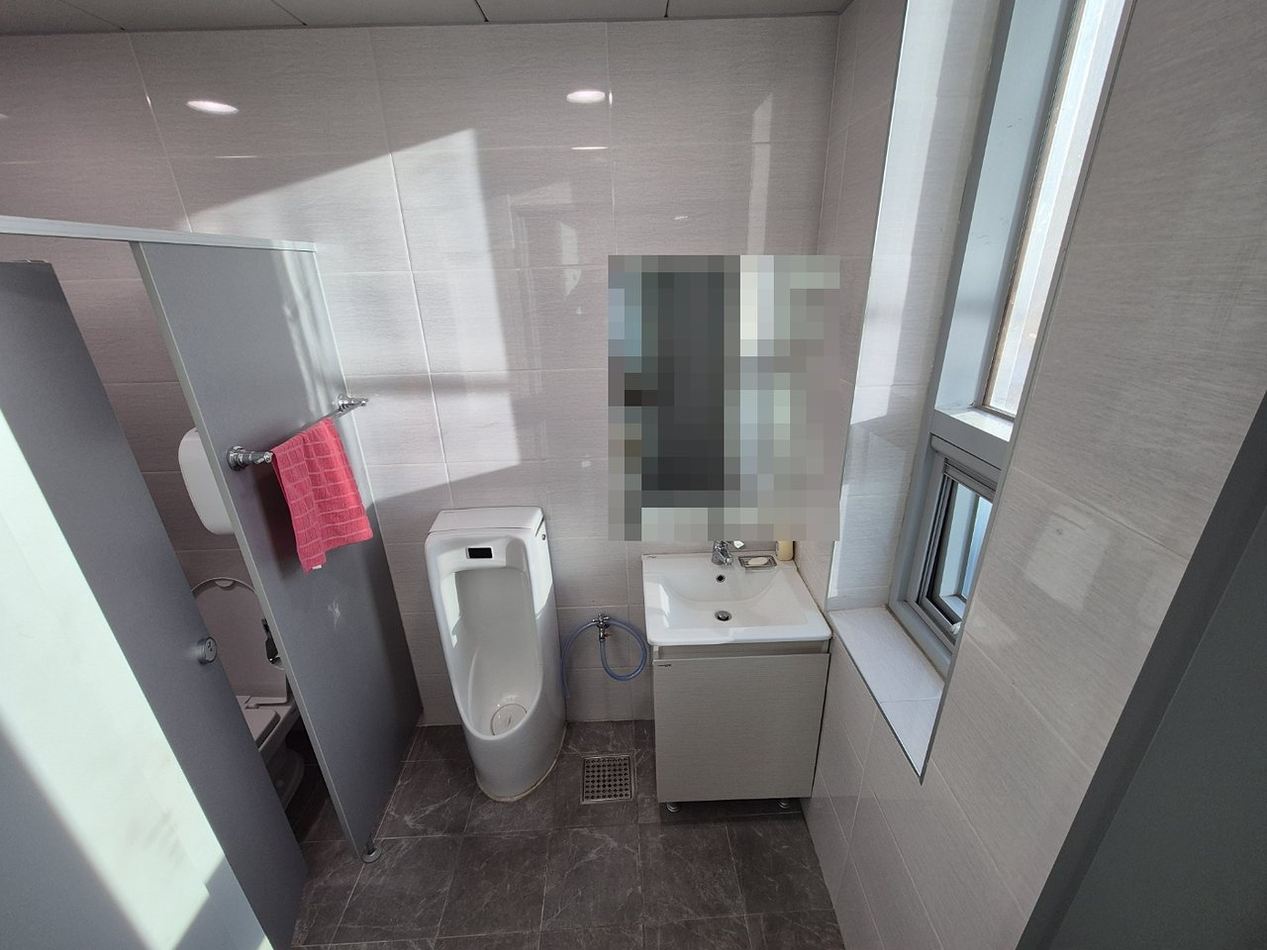
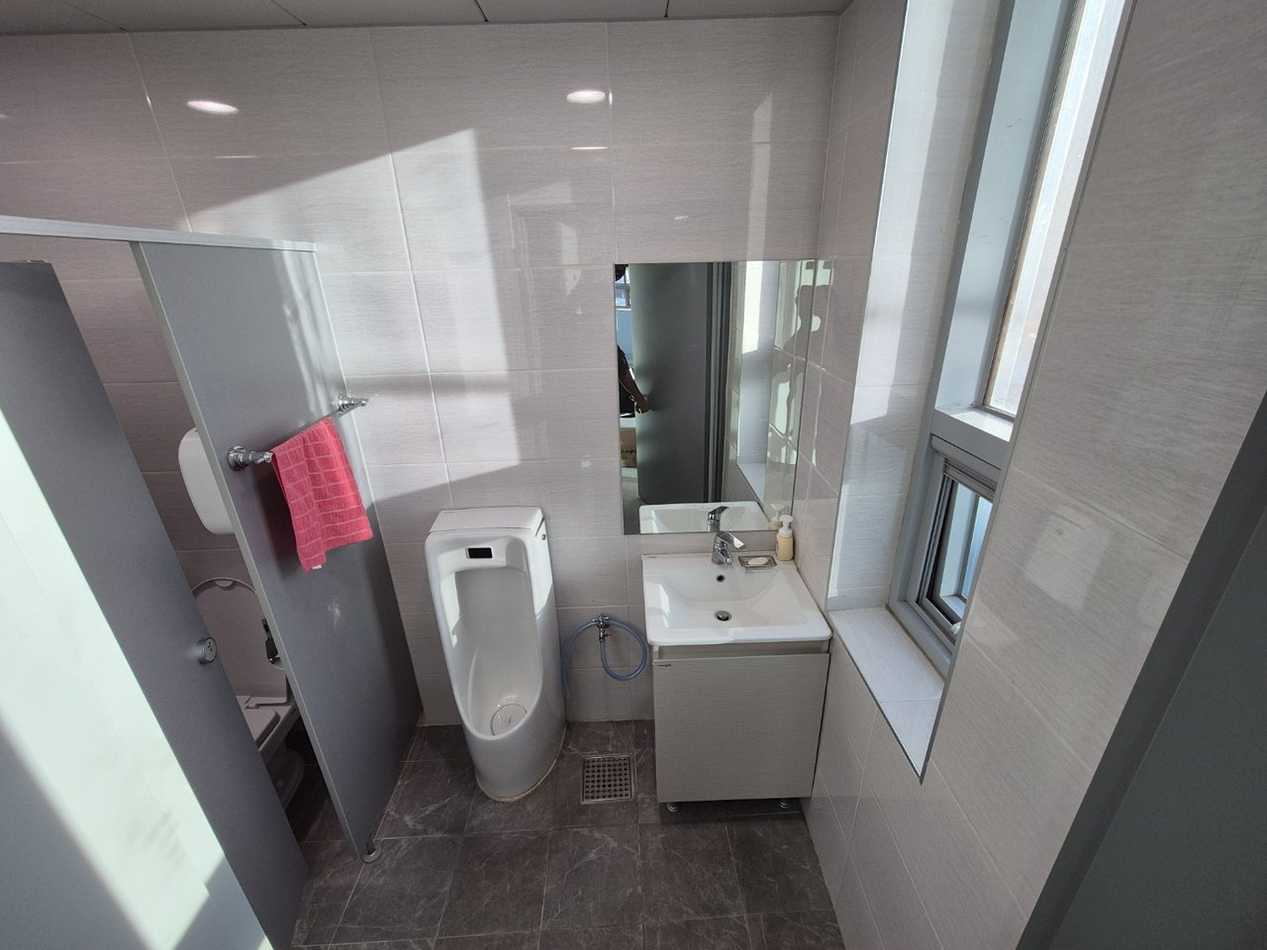
좌석 A~D구역·내 자리 사진 추가, 화장실 남녀 사진을 원본 그대로 교체

Changed region(s): [[0.4688, 0.25, 0.6562, 0.5938]]

diff --git a/index.html b/index.html
@@ -2558,7 +2558,7 @@ Object.assign(A, {
 });
 
 /* ===== 공간 사진(홍보): 실제 라운드비 사진 ===== */
-const GALLERY = [{"file":"g01.jpg","title":"라운드비가 있는 건물","caption":"푸른 유리창이 길게 이어진 건물 외관, 이곳에 라운드비가 있어요.","room":"common","rooms":["common"],"cat":"공용","group":"building","primary":true,"alt":"올려다본 고층 건물 외관. 푸른빛 유리창과 은회색 패널 벽이 길게 이어진다."},{"file":"g02.jpg","title":"ROUNDBOFFICE 입구","caption":"우드톤 벽면에 ROUNDBOFFICE 로고가 새겨진 입구, 안쪽으로 복도와 팬트리가 이어져요.","room":"common","rooms":["common"],"cat":"공용","group":"entrance","primary":true,"alt":"나무 무늬 벽에 검은 글씨로 ROUNDBOFFICE라고 적혀 있고, 왼쪽으로 복도와 팬트리 카운터, 창문이 보인다."},{"file":"g04.jpg","title":"나란히 놓인 업무 좌석","caption":"서랍이 딸린 하얀 책상과 메쉬 의자가 창가를 따라 줄지어 있어요.","room":"common","rooms":["common"],"cat":"공용","group":"seats","primary":true,"alt":"나무 칸막이 옆으로 하얀 책상과 서랍장, 흰색 메쉬 의자가 한 줄로 놓여 있고 뒤로 창문이 보인다."},{"file":"g07.jpg","title":"팬트리","caption":"우드 수납장 아래 은은한 조명, 정수기와 냉장고가 놓인 팬트리 코너예요.","room":"common","rooms":["common"],"cat":"공용","group":"pantry","primary":true,"alt":"연한 나무색 상부장과 하부장, 조명이 켜진 선반 아래에 정수기와 흰색 냉장고가 놓여 있다."},{"file":"g03.jpg","title":"햇살 드는 공유 좌석","caption":"우드 칸막이 너머로 창가를 따라 하얀 책상과 서랍, 메쉬 의자가 놓여 있어요.","room":"common","rooms":["common"],"cat":"공용","group":"seats","primary":false,"alt":"나무 칸막이 옆으로 하얀 책상과 서랍장, 회색 메쉬 의자가 놓인 밝은 사무 공간. 큰 창으로 빛이 들어온다."},{"file":"g05.jpg","title":"유리 회의 공간이 보이는 좌석 구역","caption":"좌석 구역 안쪽으로 반투명 유리벽의 회의 공간이 이어져요.","room":"common","rooms":["common"],"cat":"공용","group":"seats","primary":false,"alt":"하얀 책상과 의자가 놓인 사무 공간 너머로 반투명 유리벽이 있는 방이 보인다."},{"file":"g06.jpg","title":"콘센트가 있는 우드 벤치 코너","caption":"우드 패널 코너에 콘센트가 달린 벤치가 있고, 그 뒤로 좌석 구역이 보여요.","room":"common","rooms":["common"],"cat":"공용","group":"seats","primary":false,"alt":"나무 패널로 둘러싸인 모서리에 낮은 벤치와 콘센트가 있고, 왼쪽 뒤로 하얀 책상과 의자들이 보인다."},{"file":"g23.jpg","title":"A구역 좌석","caption":"나무 가림벽 옆으로 하얀 책상이 이어 붙어 있는 A구역이에요.","room":"common","rooms":["common"],"cat":"좌석 구역","group":"seat-A","primary":true,"alt":"나무 가림벽 옆에 하얀 책상들이 이어 붙어 있는 좌석 구역. 책상 아래에는 서랍이 달려 있고, 멀리 창가에 의자와 책상이 보이며 가림벽 너머로 주황 벤치가 살짝 보인다. 왼쪽 일부는 모자이크로 가렸다."},{"file":"g24.jpg","title":"D구역 좌석","caption":"글귀 걸개가 걸린 벽 앞으로 하얀 책상과 의자가 이어진 D구역이에요.","room":"common","rooms":["common"],"cat":"좌석 구역","group":"seat-D","primary":true,"alt":"글귀가 적힌 하얀 천 걸개가 걸린 벽 앞에 하얀 책상들이 이어져 있고, 회색 메쉬 의자가 둘러놓여 있다. 가까운 책상 위에는 '우편물 보관장소' 표지가 붙은 투명 보관함이 있고 바닥에 멀티탭이 놓여 있다."},{"file":"g08.jpg","title":"도시가 보이는 창가 라운지","caption":"통창 너머로 거리 풍경이 펼쳐지는 휴게 공간, 주황빛 벤치와 테이블이 놓여 있어요.","room":"4f-lounge","rooms":["4f-lounge"],"cat":"휴게공간","group":"lounge-corner","primary":true,"alt":"나무 패널 벽 앞에 주황색 쿠션 벤치와 글씨 무늬 식탁보를 씌운 테이블이 있고, 큰 유리창 밖으로 건물과 도로가 보인다."},{"file":"g09.jpg","title":"벤치와 테이블이 있는 휴게 코너","caption":"우드 패널 벽과 주황색 벤치, 창밖으로 거리가 내려다보이는 아늑한 코너예요.","room":"4f-lounge","rooms":["4f-lounge"],"cat":"휴게공간","group":"lounge-corner","primary":false,"alt":"나무 패널 벽을 따라 주황색 벤치가 L자로 놓여 있고 가운데 테이블이 있으며, 오른쪽 통창 밖으로 도로와 건물이 보인다."},{"file":"g10.jpg","title":"우드 패널 휴게 공간","caption":"나무 패널로 둘러싸인 코너에 벤치와 테이블이 놓인 휴게 공간이에요.","room":"4f-lounge","rooms":["4f-lounge"],"cat":"휴게공간","group":"lounge-corner","primary":false,"alt":"나무 패널 벽 앞 주황색 벤치와 글씨 무늬 식탁보를 씌운 테이블, 오른쪽으로 긴 유리창이 이어지는 모습."},{"file":"g21.jpg","title":"작은 회의실","caption":"유리벽 옆에 하얀 테이블과 의자가 놓이고 모니터가 세워진 작은 회의실이에요.","room":"4f-conf","rooms":["4f-conf"],"cat":"회의실","group":"conf-meeting-room","primary":true,"alt":"하얀 직사각 테이블 둘레에 회색 메쉬 의자가 놓인 작은 회의실. 안쪽 벽 앞에 모니터가 스탠드에 세워져 있고 오른쪽은 반투명 띠가 있는 유리벽이다. 테이블 위에는 리모컨과 펜이 있다."},{"file":"g22.jpg","title":"통창이 보이는 회의실","caption":"유리벽 안쪽에 하얀 테이블과 의자가 놓이고, 통창으로 거리가 내려다보여요.","room":"4f-conf","rooms":["4f-conf"],"cat":"회의실","group":"conf-meeting-room","primary":false,"alt":"유리벽 안쪽의 작은 회의실. 하얀 테이블과 메쉬 의자들이 놓여 있고 안쪽 통창으로 건너편 건물이 보인다. 앞쪽에는 흰 받침대에 세운 모니터의 뒷면이 보인다."},{"file":"g15.jpg","title":"스크린 앞 강의형 좌석","caption":"스크린 앞으로 책상과 의자가 줄지어 놓인 강의형 배치예요.","room":"4f-conf","rooms":["4f-conf"],"cat":"회의실","group":"conf-whiteboard","primary":true,"alt":"아치형 나무 책장 앞 큰 화면을 향해 하얀 책상과 검은 의자가 여러 줄 놓여 있다."},{"file":"g20.jpg","title":"전자칠판","caption":"바퀴 달린 스탠드에 세워진 대형 전자칠판과 주황빛 선반장이 있는 회의실이에요.","room":"4f-conf","rooms":["4f-conf"],"cat":"회의실","group":"conf-whiteboard","primary":false,"alt":"큰 창 옆, 바퀴 달린 스탠드 위에 세워진 대형 전자칠판 화면. 화면 아래 선반에 리모컨과 케이블이 놓여 있고, 오른쪽에는 주황빛 조명이 든 나무 선반장이 있다."},{"file":"g16.jpg","title":"넓은 교육·세미나 공간","caption":"통창으로 빛이 드는 넓은 공간에 테이블과 의자가 줄지어 놓여 있어요.","room":"4f-conf","rooms":["4f-conf"],"cat":"회의실","group":"conf-whiteboard","primary":false,"alt":"넓은 방에 하얀 테이블과 검은 의자가 여러 줄 놓여 있고 오른쪽에 큰 창이 있다."},{"file":"g11.jpg","title":"창가 회의실","caption":"하얀 회의 테이블과 의자가 놓인, 통창으로 빛이 드는 회의실이에요.","room":"4f-conf","rooms":["4f-conf"],"cat":"회의실","group":"conf-whiteboard","primary":false,"alt":"긴 하얀 테이블 양옆에 검은 메쉬 의자가 놓인 작은 회의실. 한쪽 벽이 큰 창이다."},{"file":"g13.jpg","title":"아치형 책장이 있는 세미나 공간","caption":"아치형 우드 책장과 주황빛 선반 앞에 하얀 테이블과 의자가 놓여 있어요.","room":"4f-conf","rooms":["4f-conf"],"cat":"회의실","group":"conf-whiteboard","primary":false,"alt":"주황색 선반이 있는 아치형 나무 책장 앞에 하얀 테이블과 검은 의자가 놓인 밝은 공간."},{"file":"g14.jpg","title":"대형 스크린이 있는 교육 공간","caption":"대형 스크린과 테이블·의자가 놓인 넓고 밝은 공간이에요.","room":"4f-conf","rooms":["4f-conf"],"cat":"회의실","group":"conf-whiteboard","primary":false,"alt":"벽에 큰 화면이 걸려 있고, 하얀 테이블과 검은 의자가 길게 놓인 밝은 방. 한쪽은 통창이다."},{"file":"g12.jpg","title":"밝은 회의 공간","caption":"하얀 벽과 큰 창, 테이블과 의자만 놓인 깔끔한 회의 공간이에요.","room":"4f-conf","rooms":["4f-conf"],"cat":"회의실","group":"conf-whiteboard","primary":false,"alt":"큰 창 앞에 하얀 테이블과 검은 의자들이 놓인 밝고 깔끔한 회의실."},{"file":"g17.jpg","title":"호리존 촬영 스튜디오","caption":"하얀 호리존 배경과 조명이 갖춰진 촬영 스튜디오예요.","room":"3f-studio","rooms":["3f-studio"],"cat":"스튜디오","group":"studio-horizon","primary":true,"alt":"바닥과 벽이 곡선으로 이어진 하얀 호리존 배경, 왼쪽 창가에 대형 소프트박스 조명이 서 있다."},{"file":"g18.jpg","title":"소프트박스 조명","caption":"대형 소프트박스 조명이 하얀 배경을 비추도록 세팅된 스튜디오예요.","room":"3f-studio","rooms":["3f-studio"],"cat":"스튜디오","group":"studio-horizon","primary":false,"alt":"창 옆에 커다란 소프트박스 조명이 세워져 있고, 정면에 하얀 호리존 배경이 펼쳐져 있다."},{"file":"g19.jpg","title":"화장실 입구","caption":"회색 문 두 개가 나란히 있고, 문 사이 벽에 남자화장실 표지가 붙어 있어요.","room":"3f-men","rooms":["3f-men","4f-men"],"cat":"화장실","group":"restroom-door","primary":false,"alt":"회색 문 두 개가 있는 좁은 복도 모서리. 두 문 사이 벽에 파란 남성 픽토그램 표지와 전등 스위치가 붙어 있고, 왼쪽 문 앞 바닥에 주황색 점자블록 두 장이 놓여 있다."},{"file":"g25.jpg","title":"화장실 안내","caption":"'화장실' 안내판이 붙은 기둥 옆으로 회색 문 두 개가 나란히 있어요.","room":"3f-men","rooms":["3f-men","4f-men","3f-women","4f-women"],"cat":"화장실","group":"restroom-door","primary":false,"alt":"화장실 화살표 안내판이 붙은 기둥 옆, 회색 문 두 개가 나란히 있는 복도 모서리. 문 사이 벽에 남성 표지가 있고 바닥에 주황색 점자블록이 놓여 있다. 왼쪽에는 알람밸브실 문이 보인다."},{"file":"g26.jpg","title":"여자화장실","caption":"세면대와 거울, 칸막이가 있는 깔끔한 여자화장실이에요.","room":"3f-women","rooms":["3f-women","4f-women"],"cat":"화장실","group":"restroom-women","primary":false,"alt":"회색 타일 벽의 화장실 안쪽. 흰색 세면대와 거울, 파란 수건이 보이고 오른쪽에 회색 칸막이 문이 있다. 왼쪽 문에는 붉은 출입금지 안내 스티커가 붙어 있다."},{"file":"g27.jpg","title":"남자화장실","caption":"소변기와 세면대, 창이 있는 밝은 남자화장실이에요.","room":"3f-men","rooms":["3f-men","4f-men"],"cat":"화장실","group":"restroom-men","primary":false,"alt":"하얀 타일 벽의 화장실 안쪽. 소변기와 세면대, 오른쪽 세로 창이 있고 왼쪽에 회색 칸막이와 분홍 수건이 걸려 있다. 거울 부분은 모자이크로 가렸다."},{"file":"g28.jpg","title":"실외기실","caption":"좁은 방 안에 실외기가 놓여 있고 뒤쪽에 환기용 창살이 있어요.","room":"3f-ac","rooms":["3f-ac","4f-ac"],"cat":"실외기실","group":"ac-room","primary":false,"alt":"회색 문틀 너머의 좁은 방. 타일 바닥 위에 흰색 실외기 한 대가 놓여 있고, 뒤쪽 벽 위에 가로 창살 환기창이 있다."},{"file":"g29.jpg","title":"실외기실 문","caption":"연회색 문이 실외기실로 이어지고, 옆으로 교육 공간과 큰 화면이 보여요.","room":"3f-ac","rooms":["3f-ac"],"cat":"실외기실","group":"ac-room","primary":false,"alt":"하얀 벽에 연회색 문이 있고, 오른쪽으로 책상과 의자가 줄지어 놓인 넓은 공간이 이어진다. 안쪽에 큰 화면이 스탠드에 세워져 있다. 벽에 붙은 작은 안내지는 모자이크로 가렸다."},{"file":"g30.jpg","title":"아치 문이 있는 창고 입구","caption":"나무 벽에 아치형 문이 나 있고 레이스 커튼이 걸려 있어요. 안쪽에 선반과 상자가 보여요.","room":"3f-storage","rooms":["3f-storage"],"cat":"창고","group":"storage","primary":false,"alt":"연한 나무색 벽 가운데에 아치형 출입구가 있고 흰 레이스 커튼이 걸려 있다. 커튼 너머로 선반과 상자가 보이고, 오른쪽에는 삼각대에 세운 검은 촬영 장비, 바닥에는 검은 케이스가 있다."}];
+const GALLERY = [{"file":"g01.jpg","title":"라운드비가 있는 건물","caption":"푸른 유리창이 길게 이어진 건물 외관, 이곳에 라운드비가 있어요.","room":"common","rooms":["common"],"cat":"공용","group":"building","primary":true,"alt":"올려다본 고층 건물 외관. 푸른빛 유리창과 은회색 패널 벽이 길게 이어진다."},{"file":"g02.jpg","title":"ROUNDBOFFICE 입구","caption":"우드톤 벽면에 ROUNDBOFFICE 로고가 새겨진 입구, 안쪽으로 복도와 팬트리가 이어져요.","room":"common","rooms":["common"],"cat":"공용","group":"entrance","primary":true,"alt":"나무 무늬 벽에 검은 글씨로 ROUNDBOFFICE라고 적혀 있고, 왼쪽으로 복도와 팬트리 카운터, 창문이 보인다."},{"file":"g04.jpg","title":"나란히 놓인 업무 좌석","caption":"서랍이 딸린 하얀 책상과 메쉬 의자가 창가를 따라 줄지어 있어요.","room":"common","rooms":["common"],"cat":"공용","group":"seats","primary":true,"alt":"나무 칸막이 옆으로 하얀 책상과 서랍장, 흰색 메쉬 의자가 한 줄로 놓여 있고 뒤로 창문이 보인다."},{"file":"g07.jpg","title":"팬트리","caption":"우드 수납장 아래 은은한 조명, 정수기와 냉장고가 놓인 팬트리 코너예요.","room":"common","rooms":["common"],"cat":"공용","group":"pantry","primary":true,"alt":"연한 나무색 상부장과 하부장, 조명이 켜진 선반 아래에 정수기와 흰색 냉장고가 놓여 있다."},{"file":"g03.jpg","title":"햇살 드는 공유 좌석","caption":"우드 칸막이 너머로 창가를 따라 하얀 책상과 서랍, 메쉬 의자가 놓여 있어요.","room":"common","rooms":["common"],"cat":"공용","group":"seats","primary":false,"alt":"나무 칸막이 옆으로 하얀 책상과 서랍장, 회색 메쉬 의자가 놓인 밝은 사무 공간. 큰 창으로 빛이 들어온다."},{"file":"g05.jpg","title":"유리 회의 공간이 보이는 좌석 구역","caption":"좌석 구역 안쪽으로 반투명 유리벽의 회의 공간이 이어져요.","room":"common","rooms":["common"],"cat":"공용","group":"seats","primary":false,"alt":"하얀 책상과 의자가 놓인 사무 공간 너머로 반투명 유리벽이 있는 방이 보인다."},{"file":"g06.jpg","title":"콘센트가 있는 우드 벤치 코너","caption":"우드 패널 코너에 콘센트가 달린 벤치가 있고, 그 뒤로 좌석 구역이 보여요.","room":"common","rooms":["common"],"cat":"공용","group":"seats","primary":false,"alt":"나무 패널로 둘러싸인 모서리에 낮은 벤치와 콘센트가 있고, 왼쪽 뒤로 하얀 책상과 의자들이 보인다."},{"file":"g23.jpg","title":"A구역 좌석","caption":"A1~A6, 6석이 한 묶음으로 놓인 공유 좌석 구역이에요.","room":"common","rooms":["common"],"cat":"좌석 구역","group":"zone-A","primary":true,"alt":"하얀 책상이 이어 붙은 A구역 좌석. 창가와 나무 칸막이가 보인다."},{"file":"g24.jpg","title":"D구역 좌석","caption":"D1~D6, 6석 좌석 구역이에요.","room":"common","rooms":["common"],"cat":"좌석 구역","group":"zone-D","primary":true,"alt":"하얀 책상과 의자가 놓인 D구역 좌석."},{"file":"g31.jpg","title":"A구역 좌석 (다른 각도)","caption":"A구역을 다른 쪽에서 본 모습이에요.","room":"common","rooms":["common"],"cat":"좌석 구역","group":"zone-A","primary":false,"alt":"A구역 좌석을 다른 각도에서 찍은 모습."},{"file":"g32.jpg","title":"B구역 좌석","caption":"B1~B4, 4석이 모인 좌석 구역이에요.","room":"common","rooms":["common"],"cat":"좌석 구역","group":"zone-B","primary":true,"alt":"하얀 책상과 의자가 놓인 B구역 좌석."},{"file":"g33.jpg","title":"C구역 좌석","caption":"C1~C6, 6석 좌석 구역이에요. 매니저가 일하는 자리가 있어요.","room":"common","rooms":["common"],"cat":"좌석 구역","group":"zone-C","primary":true,"alt":"하얀 책상과 의자가 놓인 C구역 좌석."},{"file":"g34.jpg","title":"D구역 좌석 (다른 각도)","caption":"D구역을 다른 쪽에서 본 모습이에요.","room":"common","rooms":["common"],"cat":"좌석 구역","group":"zone-D","primary":false,"alt":"D구역 좌석을 다른 각도에서 찍은 모습."},{"file":"g35.jpg","title":"내 자리 · 매니저 카이","caption":"라운드비 매니저가 일하는 자리예요.","room":"common","rooms":["common"],"cat":"좌석 구역","group":"manager-seat","primary":false,"alt":"라운드비 매니저의 업무 자리."},{"file":"g08.jpg","title":"도시가 보이는 창가 라운지","caption":"통창 너머로 거리 풍경이 펼쳐지는 휴게 공간, 주황빛 벤치와 테이블이 놓여 있어요.","room":"4f-lounge","rooms":["4f-lounge"],"cat":"휴게공간","group":"lounge-corner","primary":true,"alt":"나무 패널 벽 앞에 주황색 쿠션 벤치와 글씨 무늬 식탁보를 씌운 테이블이 있고, 큰 유리창 밖으로 건물과 도로가 보인다."},{"file":"g09.jpg","title":"벤치와 테이블이 있는 휴게 코너","caption":"우드 패널 벽과 주황색 벤치, 창밖으로 거리가 내려다보이는 아늑한 코너예요.","room":"4f-lounge","rooms":["4f-lounge"],"cat":"휴게공간","group":"lounge-corner","primary":false,"alt":"나무 패널 벽을 따라 주황색 벤치가 L자로 놓여 있고 가운데 테이블이 있으며, 오른쪽 통창 밖으로 도로와 건물이 보인다."},{"file":"g10.jpg","title":"우드 패널 휴게 공간","caption":"나무 패널로 둘러싸인 코너에 벤치와 테이블이 놓인 휴게 공간이에요.","room":"4f-lounge","rooms":["4f-lounge"],"cat":"휴게공간","group":"lounge-corner","primary":false,"alt":"나무 패널 벽 앞 주황색 벤치와 글씨 무늬 식탁보를 씌운 테이블, 오른쪽으로 긴 유리창이 이어지는 모습."},{"file":"g21.jpg","title":"작은 회의실","caption":"유리벽 옆에 하얀 테이블과 의자가 놓이고 모니터가 세워진 작은 회의실이에요.","room":"4f-conf","rooms":["4f-conf"],"cat":"회의실","group":"conf-meeting-room","primary":true,"alt":"하얀 직사각 테이블 둘레에 회색 메쉬 의자가 놓인 작은 회의실. 안쪽 벽 앞에 모니터가 스탠드에 세워져 있고 오른쪽은 반투명 띠가 있는 유리벽이다. 테이블 위에는 리모컨과 펜이 있다."},{"file":"g22.jpg","title":"통창이 보이는 회의실","caption":"유리벽 안쪽에 하얀 테이블과 의자가 놓이고, 통창으로 거리가 내려다보여요.","room":"4f-conf","rooms":["4f-conf"],"cat":"회의실","group":"conf-meeting-room","primary":false,"alt":"유리벽 안쪽의 작은 회의실. 하얀 테이블과 메쉬 의자들이 놓여 있고 안쪽 통창으로 건너편 건물이 보인다. 앞쪽에는 흰 받침대에 세운 모니터의 뒷면이 보인다."},{"file":"g15.jpg","title":"스크린 앞 강의형 좌석","caption":"스크린 앞으로 책상과 의자가 줄지어 놓인 강의형 배치예요.","room":"4f-conf","rooms":["4f-conf"],"cat":"회의실","group":"conf-whiteboard","primary":true,"alt":"아치형 나무 책장 앞 큰 화면을 향해 하얀 책상과 검은 의자가 여러 줄 놓여 있다."},{"file":"g20.jpg","title":"전자칠판","caption":"바퀴 달린 스탠드에 세워진 대형 전자칠판과 주황빛 선반장이 있는 회의실이에요.","room":"4f-conf","rooms":["4f-conf"],"cat":"회의실","group":"conf-whiteboard","primary":false,"alt":"큰 창 옆, 바퀴 달린 스탠드 위에 세워진 대형 전자칠판 화면. 화면 아래 선반에 리모컨과 케이블이 놓여 있고, 오른쪽에는 주황빛 조명이 든 나무 선반장이 있다."},{"file":"g16.jpg","title":"넓은 교육·세미나 공간","caption":"통창으로 빛이 드는 넓은 공간에 테이블과 의자가 줄지어 놓여 있어요.","room":"4f-conf","rooms":["4f-conf"],"cat":"회의실","group":"conf-whiteboard","primary":false,"alt":"넓은 방에 하얀 테이블과 검은 의자가 여러 줄 놓여 있고 오른쪽에 큰 창이 있다."},{"file":"g11.jpg","title":"창가 회의실","caption":"하얀 회의 테이블과 의자가 놓인, 통창으로 빛이 드는 회의실이에요.","room":"4f-conf","rooms":["4f-conf"],"cat":"회의실","group":"conf-whiteboard","primary":false,"alt":"긴 하얀 테이블 양옆에 검은 메쉬 의자가 놓인 작은 회의실. 한쪽 벽이 큰 창이다."},{"file":"g13.jpg","title":"아치형 책장이 있는 세미나 공간","caption":"아치형 우드 책장과 주황빛 선반 앞에 하얀 테이블과 의자가 놓여 있어요.","room":"4f-conf","rooms":["4f-conf"],"cat":"회의실","group":"conf-whiteboard","primary":false,"alt":"주황색 선반이 있는 아치형 나무 책장 앞에 하얀 테이블과 검은 의자가 놓인 밝은 공간."},{"file":"g14.jpg","title":"대형 스크린이 있는 교육 공간","caption":"대형 스크린과 테이블·의자가 놓인 넓고 밝은 공간이에요.","room":"4f-conf","rooms":["4f-conf"],"cat":"회의실","group":"conf-whiteboard","primary":false,"alt":"벽에 큰 화면이 걸려 있고, 하얀 테이블과 검은 의자가 길게 놓인 밝은 방. 한쪽은 통창이다."},{"file":"g12.jpg","title":"밝은 회의 공간","caption":"하얀 벽과 큰 창, 테이블과 의자만 놓인 깔끔한 회의 공간이에요.","room":"4f-conf","rooms":["4f-conf"],"cat":"회의실","group":"conf-whiteboard","primary":false,"alt":"큰 창 앞에 하얀 테이블과 검은 의자들이 놓인 밝고 깔끔한 회의실."},{"file":"g17.jpg","title":"호리존 촬영 스튜디오","caption":"하얀 호리존 배경과 조명이 갖춰진 촬영 스튜디오예요.","room":"3f-studio","rooms":["3f-studio"],"cat":"스튜디오","group":"studio-horizon","primary":true,"alt":"바닥과 벽이 곡선으로 이어진 하얀 호리존 배경, 왼쪽 창가에 대형 소프트박스 조명이 서 있다."},{"file":"g18.jpg","title":"소프트박스 조명","caption":"대형 소프트박스 조명이 하얀 배경을 비추도록 세팅된 스튜디오예요.","room":"3f-studio","rooms":["3f-studio"],"cat":"스튜디오","group":"studio-horizon","primary":false,"alt":"창 옆에 커다란 소프트박스 조명이 세워져 있고, 정면에 하얀 호리존 배경이 펼쳐져 있다."},{"file":"g19.jpg","title":"화장실 입구","caption":"회색 문 두 개가 나란히 있고, 문 사이 벽에 남자화장실 표지가 붙어 있어요.","room":"3f-men","rooms":["3f-men","4f-men"],"cat":"화장실","group":"restroom-door","primary":false,"alt":"회색 문 두 개가 있는 좁은 복도 모서리. 두 문 사이 벽에 파란 남성 픽토그램 표지와 전등 스위치가 붙어 있고, 왼쪽 문 앞 바닥에 주황색 점자블록 두 장이 놓여 있다."},{"file":"g25.jpg","title":"화장실 안내","caption":"'화장실' 안내판이 붙은 기둥 옆으로 회색 문 두 개가 나란히 있어요.","room":"3f-men","rooms":["3f-men","4f-men","3f-women","4f-women"],"cat":"화장실","group":"restroom-door","primary":false,"alt":"화장실 화살표 안내판이 붙은 기둥 옆, 회색 문 두 개가 나란히 있는 복도 모서리. 문 사이 벽에 남성 표지가 있고 바닥에 주황색 점자블록이 놓여 있다. 왼쪽에는 알람밸브실 문이 보인다."},{"file":"g26.jpg","title":"여자화장실","caption":"세면대와 칸막이가 있는 깔끔한 여자화장실이에요.","room":"3f-women","rooms":["3f-women","4f-women"],"cat":"화장실","group":"restroom-women","primary":false,"alt":"회색 칸막이와 세면대가 있는 여자화장실 내부."},{"file":"g27.jpg","title":"남자화장실","caption":"소변기와 세면대가 있는 남자화장실이에요.","room":"3f-men","rooms":["3f-men","4f-men"],"cat":"화장실","group":"restroom-men","primary":false,"alt":"소변기와 세면대, 창문이 있는 남자화장실 내부."},{"file":"g28.jpg","title":"실외기실","caption":"좁은 방 안에 실외기가 놓여 있고 뒤쪽에 환기용 창살이 있어요.","room":"3f-ac","rooms":["3f-ac","4f-ac"],"cat":"실외기실","group":"ac-room","primary":false,"alt":"회색 문틀 너머의 좁은 방. 타일 바닥 위에 흰색 실외기 한 대가 놓여 있고, 뒤쪽 벽 위에 가로 창살 환기창이 있다."},{"file":"g29.jpg","title":"실외기실 문","caption":"연회색 문이 실외기실로 이어지고, 옆으로 교육 공간과 큰 화면이 보여요.","room":"3f-ac","rooms":["3f-ac"],"cat":"실외기실","group":"ac-room","primary":false,"alt":"하얀 벽에 연회색 문이 있고, 오른쪽으로 책상과 의자가 줄지어 놓인 넓은 공간이 이어진다. 안쪽에 큰 화면이 스탠드에 세워져 있다. 벽에 붙은 작은 안내지는 모자이크로 가렸다."},{"file":"g30.jpg","title":"아치 문이 있는 창고 입구","caption":"나무 벽에 아치형 문이 나 있고 레이스 커튼이 걸려 있어요. 안쪽에 선반과 상자가 보여요.","room":"3f-storage","rooms":["3f-storage"],"cat":"창고","group":"storage","primary":false,"alt":"연한 나무색 벽 가운데에 아치형 출입구가 있고 흰 레이스 커튼이 걸려 있다. 커튼 너머로 선반과 상자가 보이고, 오른쪽에는 삼각대에 세운 검은 촬영 장비, 바닥에는 검은 케이스가 있다."}];
 const LINKS = [["라운드비 홈페이지", "https://roundb.co.kr/"], ["카카오톡 채널 문의", "https://pf.kakao.com/_guxfxlX"], ["유튜브", "https://www.youtube.com/@%EB%9D%BC%EC%9A%B4%EB%93%9C%EB%B9%84%EA%B3%B5%EC%9C%A0%EC%98%A4%ED%94%BC%EC%8A%A4/featured"], ["인스타그램", "https://www.instagram.com/roundboffice/"]];
 const linksHTML = () => `<div class="row lk">${LINKS.map(([t, u]) => `<a class="btn btn-sm" href="${esc(u)}" target="_blank" rel="noopener noreferrer">${esc(t)}</a>`).join("")}</div><p class="small faint" style="text-align:center">문의 전화 02-2252-8766 · 동대문 공유오피스 라운드비</p>`;
 const PROMO = {name:"라운드비 공유오피스", line:"게임 속 공간은 실제 라운드비를 바탕으로 만들었어요.", link:"", linkText:"라운드비 알아보기"};
